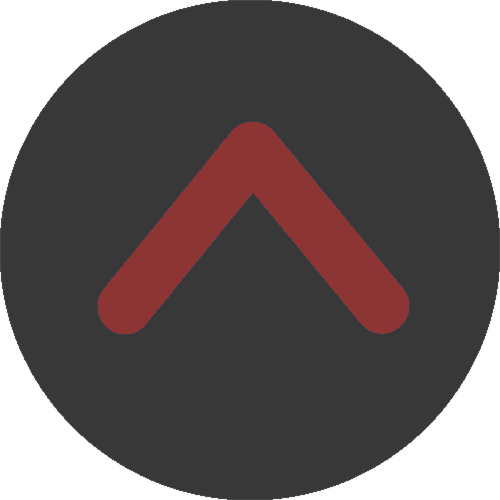
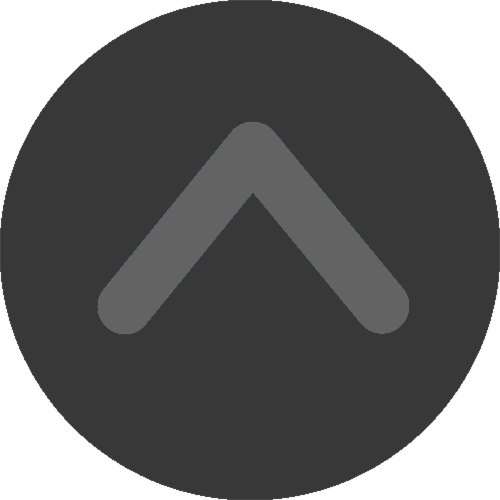
pvp overlays working. Performance updates as well.

Changed region(s): [[0.18, 0.24, 0.84, 0.69]]

diff --git a/Views/Overlay/PvP/OpponentHPBar.xaml b/Views/Overlay/PvP/OpponentHPBar.xaml
@@ -13,9 +13,8 @@
                 <ColumnDefinition Width="{Binding BarWidth, Mode=TwoWay}"/>
                 <ColumnDefinition Width="{Binding RemainderWidth, Mode=TwoWay}"/>
             </Grid.ColumnDefinitions>
-            <Border HorizontalAlignment="Stretch" Grid.Column="0" CornerRadius="0,5,5,0" Background="Firebrick"></Border>
+            <Border HorizontalAlignment="Stretch" Grid.Column="0" CornerRadius="0,5,5,0" Background="{Binding Menace, Converter={StaticResource MenaceTypeToBrushConverter}}"></Border>
             <TextBlock HorizontalAlignment="Center" VerticalAlignment="Center" FontWeight="DemiBold" FontFamily="{StaticResource MainFont}" FontSize="30" Grid.ColumnSpan="2"  Foreground="WhiteSmoke" Text="{Binding PlayerName}"></TextBlock>
-            <Image Visibility="{Binding IsMenace, Converter={StaticResource BooleanToVisibiityConverter}}" Source="{Binding MenaceIconSource}" HorizontalAlignment="Left" VerticalAlignment="Center" Margin="5,5,5,5"></Image>
         </Grid>
     </Border>
 

diff --git a/Views/Overlay/PvP/OpponentMapIcon.xaml b/Views/Overlay/PvP/OpponentMapIcon.xaml
@@ -14,10 +14,10 @@
         </Grid.RowDefinitions>
         <Grid Grid.Row="0">
             <Viewbox>
-                <Image Source="../../../resources/question-mark.png" x:Name="Icon" RenderTransformOrigin="0.5,0.5"/>
+                <Image Source="../../../resources/RoomOverlays/OpponentLocation.png" x:Name="Icon" RenderTransformOrigin="0.5,0.5"/>
             </Viewbox>
-            <Viewbox HorizontalAlignment="Right" VerticalAlignment="Bottom" Margin="10,10,0,0">
-                <Image Source="../../../resources/dpsIcon.png" x:Name="MenaceIcon" />
+            <Viewbox>
+                <Image Source="../../../resources/RoomOverlays/SelectionAdornment.png" x:Name="SelectionAdornment" />
             </Viewbox>
             
         </Grid>

diff --git a/App.xaml b/App.xaml
@@ -45,6 +45,7 @@
             <converters:OverlayTypeToReadableNameConverter x:Key="OverlayTypeToReadableNameConverter"/>
             <converters:OpponentInRangeToColorConverter x:Key="OpponentInRangeToColorConverter"/>
             <converters:BooleanToHpBorderConverter x:Key="BooleanToHpBorderConverter"/>
+            <converters:MenaceTypeToBrushConverter x:Key="MenaceTypeToBrushConverter"/>
         </ResourceDictionary>
     </Application.Resources>
 </Application>

diff --git a/Views/Overlay/PvP/MiniMapView.xaml.cs b/Views/Overlay/PvP/MiniMapView.xaml.cs
@@ -176,16 +176,8 @@ namespace SWTORCombatParser.Views.Overlay.PvP
                 Canvas.SetTop(RangeIndicator, imageLocation.Height / 2 - (RangeIndicator.Height / 2));
                 foreach (var opponent in opponentInfos) {
                     var img = opponentImages[opponentIndex];
-                    img.Icon.Source = opponent.IsTarget ?
-                    new BitmapImage(new Uri(System.IO.Path.Combine(Environment.CurrentDirectory, "resources/RoomOverlays/TargetedOpponentLocation.png"))) :
-                    new BitmapImage(new Uri(System.IO.Path.Combine(Environment.CurrentDirectory, "resources/RoomOverlays/OpponentLocation.png")));
-                    if (opponent.Menace != MenaceTypes.None)
-                    { 
-                        img.MenaceIcon.Visibility = Visibility.Visible;
-                        img.MenaceIcon.Source = new BitmapImage(GetUriFromMenaceType(opponent.Menace));
-                    }
-                    else
-                        img.MenaceIcon.Visibility = Visibility.Hidden;
+                    img.Icon.Source = new BitmapImage(GetUriFromMenaceType(opponent.Menace));
+                    img.SelectionAdornment.Visibility = opponent.IsTarget ? Visibility.Visible : Visibility.Hidden;
 
                     img.PlayerName.Text = opponent.Name;
                     img.Visibility = Visibility.Visible;
@@ -199,6 +191,8 @@ namespace SWTORCombatParser.Views.Overlay.PvP
 
                     
                     Point characterLocation = new Point((imageLocation.Width * xFraction) + imageLocation.Width/2, (imageLocation.Height * yFraction) + imageLocation.Height/2);
+                    characterLocation.X = Math.Max(0,Math.Min(characterLocation.X, imageLocation.Width));
+                    characterLocation.Y = Math.Max(0,Math.Min(characterLocation.Y, imageLocation.Height));
                     img.Height = imageLocation.Height * 0.1;
                     img.Width = img.Height;
                     Canvas.SetLeft(img, characterLocation.X - (img.Width / 2));
@@ -219,10 +213,10 @@ namespace SWTORCombatParser.Views.Overlay.PvP
             if (menace == MenaceTypes.None)
                 return new Uri(System.IO.Path.Combine(Environment.CurrentDirectory, "resources/RoomOverlays/OpponentLocation.png"));
             if (menace == MenaceTypes.Dps)
-                return new Uri(System.IO.Path.Combine(Environment.CurrentDirectory, "resources/dpsIcon.png"));
+                return new Uri(System.IO.Path.Combine(Environment.CurrentDirectory, "resources/RoomOverlays/DamageMenaceOpponentLocation.png"));
             if (menace == MenaceTypes.Healer)
-                return new Uri(System.IO.Path.Combine(Environment.CurrentDirectory, "resources/healingIcon.png"));
-            return new Uri(System.IO.Path.Combine(Environment.CurrentDirectory, "resources/question-mark.png"));
+                return new Uri(System.IO.Path.Combine(Environment.CurrentDirectory, "resources/RoomOverlays/HealMenaceOpponentLocation.png"));
+            return new Uri(System.IO.Path.Combine(Environment.CurrentDirectory, "resources/RoomOverlays/OpponentLocation.png"));
         }
 
         private void HideAllOpponents()

diff --git a/Utilities/SWTORDetector.cs b/Utilities/SWTORDetector.cs
@@ -13,27 +13,34 @@ namespace SWTORCombatParser.Utilities
         public static bool SwtorRunning;
         public static void StartMonitoring()
         {
-            _monitorForSwtor = true;
-            Task.Run(() => {
-                while (_monitorForSwtor)
-                {
-                    var processCollection = Process.GetProcesses();
-                    if(processCollection.Any(p=>p.ProcessName == "swtor"))
+                _monitorForSwtor = true;
+                Task.Run(() => {
+                    while (_monitorForSwtor)
                     {
-                        if(!SwtorRunning)
-                            UpdateStatus();
-                        SwtorRunning = true;
-                    }
-                    else
-                    {
-                        if(SwtorRunning)
-                            UpdateStatus();
-                        SwtorRunning = false;
-                    }
+                        try
+                        {
+                            var processCollection = Process.GetProcesses();
+                            if (processCollection.Any(p => p.ProcessName == "swtor"))
+                            {
+                                if (!SwtorRunning)
+                                    UpdateStatus();
+                                SwtorRunning = true;
+                            }
+                            else
+                            {
+                                if (SwtorRunning)
+                                    UpdateStatus();
+                                SwtorRunning = false;
+                            }
 
-                    Thread.Sleep(SwtorRunning ? 1500 : 5000);
-                }
-            });
+                            Thread.Sleep(SwtorRunning ? 1500 : 5000);
+                        }
+                        catch (Exception e)
+                        {
+                            Logging.LogError("Error during process dection: " + e.Message);
+                        }
+                    }
+                });
         }
 
         private static void UpdateStatus()

diff --git a/ViewModels/Combat Monitoring/CombatMonitorViewModel.cs b/ViewModels/Combat Monitoring/CombatMonitorViewModel.cs
@@ -151,18 +151,18 @@ namespace SWTORCombatParser.ViewModels.Combat_Monitoring
             if(!runningInBackground)
                 LoadingWindowFactory.ShowLoading();
             OnMonitoringStateChanged(true);
-            //var mostRecentLog = CombatLogLoader.GetMostRecentLogPath();
-            var mostRecentLog = Path.Join(_logPath, "test.txt");
-            File.Delete(mostRecentLog);
-            File.Create(mostRecentLog).Close();
+            var mostRecentLog = CombatLogLoader.GetMostRecentLogPath();
+            //var mostRecentLog = Path.Join(_logPath, "test.txt");
+            //File.Delete(mostRecentLog);
+            //File.Create(mostRecentLog).Close();
             _combatLogStreamer.MonitorLog(mostRecentLog);
             OnNewLog("Started Monitoring: " + mostRecentLog);
-            Task.Run(() =>
-            {
-                Thread.Sleep(1000);
-                TransferLogData(mostRecentLog);
-                File.Delete(mostRecentLog);
-            });
+            //Task.Run(() =>
+            //{
+            //    Thread.Sleep(1000);
+            //    TransferLogData(mostRecentLog);
+            //    File.Delete(mostRecentLog);
+            //});
 
         }
         //TEST CODE
@@ -181,7 +181,7 @@ namespace SWTORCombatParser.ViewModels.Combat_Monitoring
                     {
                         while (!reader.EndOfStream)
                         {
-                            var numberOfLines = new Random().Next(40, 90);
+                            var numberOfLines = new Random().Next(2, 5);
                             List<string> lines = new List<string>();
                             for (int i = 0; i < numberOfLines; i++)
                             {
@@ -193,7 +193,7 @@ namespace SWTORCombatParser.ViewModels.Combat_Monitoring
                             fs.Flush();
 
 
-                            Thread.Sleep(100);
+                            Thread.Sleep(250);
                         }
                         fs.Flush();
                         fs.Close();

diff --git a/ViewModels/DataGrid/StatsSlotViewModel.cs b/ViewModels/DataGrid/StatsSlotViewModel.cs
@@ -1,5 +1,6 @@
 using MvvmHelpers;
 using SWTORCombatParser.Model.Overlays;
+using SWTORCombatParser.Utilities;
 using SWTORCombatParser.Utilities.Converters;
 using System;
 using System.Drawing;
@@ -27,7 +28,7 @@ namespace SWTORCombatParser.ViewModels.DataGrid
                     ForegroundColor = System.Windows.Media.Brushes.WhiteSmoke;
                 Value = name;
                 DisplayIcon = true;
-                RoleIcon = ToBitmapImage(new Bitmap(Environment.CurrentDirectory + "/resources/"+ iconName));
+                RoleIcon = IconFactory.GetIcon(iconName);
                 return;
             }
             ForegroundColor = (SolidColorBrush)new OverlayMetricToColorConverter().Convert(type, null, null, System.Globalization.CultureInfo.InvariantCulture);
@@ -42,22 +43,5 @@ namespace SWTORCombatParser.ViewModels.DataGrid
             }
         }
         public SolidColorBrush ForegroundColor { get; set; }
-        public static BitmapImage ToBitmapImage(Bitmap bitmap)
-        {
-            using (var memory = new MemoryStream())
-            {
-                bitmap.Save(memory, ImageFormat.Png);
-                memory.Position = 0;
-
-                var bitmapImage = new BitmapImage();
-                bitmapImage.BeginInit();
-                bitmapImage.StreamSource = memory;
-                bitmapImage.CacheOption = BitmapCacheOption.OnLoad;
-                bitmapImage.EndInit();
-                bitmapImage.Freeze();
-
-                return bitmapImage;
-            }
-        }
     }
 }

diff --git a/ViewModels/DataGrid/MemberInfo.cs b/ViewModels/DataGrid/MemberInfo.cs
@@ -21,7 +21,7 @@ namespace SWTORCombatParser.ViewModels.DataGrid
             _info = info;
             _entity = e;
             IsLocalPlayer = e.IsLocalPlayer;
-            StatsSlots = new ObservableCollection<StatsSlotViewModel>(selectedColumns.Select(i => new StatsSlotViewModel(i) {  Value = GetValue(i) }));
+            StatsSlots = new List<StatsSlotViewModel>(selectedColumns.Select(i => new StatsSlotViewModel(i) {  Value = GetValue(i) }));
             StatsSlots.Insert(0, new StatsSlotViewModel(OverlayType.None, _entity.Name, GetIconPathFromClass(CombatLogStateBuilder.CurrentState.GetCharacterClassAtTime(_entity, info.Last().StartTime)), IsLocalPlayer));
             if(selectedColumns.Count < 10)
                 StatsSlots.Add(new StatsSlotViewModel(OverlayType.None) { Value = "" });
@@ -105,12 +105,12 @@ namespace SWTORCombatParser.ViewModels.DataGrid
         {
             return classInfo.Role switch
             {
-                Role.Healer => "healingIcon.png",
-                Role.Tank => "tankIcon.png",
-                Role.DPS => "dpsIcon.png",
-                _ => "question-mark.png"
+                Role.Healer => "healer",
+                Role.Tank => "tank",
+                Role.DPS => "dps",
+                _ => "unknown"
             };
         }
-        public ObservableCollection<StatsSlotViewModel> StatsSlots { get; set; } = new ObservableCollection<StatsSlotViewModel>();
+        public List<StatsSlotViewModel> StatsSlots { get; set; } = new List<StatsSlotViewModel>();
     }
 }

diff --git a/Utilities/IconFactory.cs b/Utilities/IconFactory.cs
@@ -1,0 +1,40 @@
+using SWTORCombatParser.DataStructures.ClassInfos;
+using System;
+using System.Collections.Generic;
+using System.Linq;
+using System.Text;
+using System.Threading.Tasks;
+using System.Windows.Media.Imaging;
+
+namespace SWTORCombatParser.Utilities
+{
+    public static class IconFactory
+    {
+        private static BitmapImage _tankIcon;
+        private static BitmapImage _healIcon;
+        private static BitmapImage _dpsIcon;
+        private static BitmapImage _unknownIcon;
+
+        public static void Init()
+        {
+            _tankIcon = new BitmapImage(new Uri(Environment.CurrentDirectory + "/resources/tankIcon.png"));
+            _healIcon = new BitmapImage(new Uri(Environment.CurrentDirectory + "/resources/healingIcon.png"));
+            _dpsIcon = new BitmapImage(new Uri(Environment.CurrentDirectory + "/resources/dpsIcon.png"));
+            _unknownIcon = new BitmapImage(new Uri(Environment.CurrentDirectory + "/resources/question-mark.png"));
+        }
+        public static BitmapImage GetIcon(string role)
+        {
+            switch (role)
+            {
+                case "tank":
+                    return _tankIcon;
+                case "healer":
+                    return _healIcon;
+                case "dps":
+                    return _dpsIcon;
+                default:
+                    return _unknownIcon;
+            }
+        }
+    }
+}

diff --git a/Utilities/Converters/MenaceTypeToBrushConverter.cs b/Utilities/Converters/MenaceTypeToBrushConverter.cs
@@ -1,0 +1,32 @@
+using SWTORCombatParser.ViewModels.Overlays.PvP;
+using System;
+using System.Collections.Generic;
+using System.Globalization;
+using System.Linq;
+using System.Text;
+using System.Threading.Tasks;
+using System.Windows.Data;
+using System.Windows.Media;
+
+namespace SWTORCombatParser.Utilities.Converters
+{
+    public class MenaceTypeToBrushConverter : IValueConverter
+    {
+        public object Convert(object value, Type targetType, object parameter, CultureInfo culture)
+        {
+            var menaceType = (MenaceTypes)value;
+            if (menaceType == MenaceTypes.None)
+                return Brushes.IndianRed;
+            if (menaceType == MenaceTypes.Healer)
+                return Brushes.MediumSeaGreen;
+            if (menaceType == MenaceTypes.Dps)
+                return Brushes.Firebrick;
+            return Brushes.Magenta;
+        }
+
+        public object ConvertBack(object value, Type targetType, object parameter, CultureInfo culture)
+        {
+            throw new NotImplementedException();
+        }
+    }
+}

diff --git a/ViewModels/Overlays/PvP/OpponentHPBarViewModel.cs b/ViewModels/Overlays/PvP/OpponentHPBarViewModel.cs
@@ -49,16 +49,11 @@ namespace SWTORCombatParser.ViewModels.Overlays.PvP
                 OnPropertyChanged();
             }
         }
-        public bool IsMenace { get; set; }
-        public string MenaceIconSource => Menace == MenaceTypes.Dps ? Path.Combine(Environment.CurrentDirectory, "resources/dpsIcon.png") : Path.Combine(Environment.CurrentDirectory, "resources/healingIcon.png");
         public MenaceTypes Menace
         {
             get => menace; set
             {
                 menace = value;
-                if(menace!=MenaceTypes.None)
-                    IsMenace = true;
-                OnPropertyChanged("MenaceIconSource");
                 OnPropertyChanged("IsMenace");
             }
         }

diff --git a/ViewModels/DataGrid/DataGridViewModel.cs b/ViewModels/DataGrid/DataGridViewModel.cs
@@ -10,6 +10,7 @@ using System.ComponentModel;
 using System.Linq;
 using System.Runtime.CompilerServices;
 using SWTORCombatParser.DataStructures.ClassInfos;
+using SWTORCombatParser.Utilities;
 
 namespace SWTORCombatParser.ViewModels.DataGrid
 {
@@ -31,6 +32,7 @@ namespace SWTORCombatParser.ViewModels.DataGrid
 
         public DataGridViewModel()
         {
+            IconFactory.Init();
             DataGridDefaults.Init();
             CombatLogStateBuilder.PlayerDiciplineChanged += UpdateColumns;
             CombatLogStreamer.HistoricalLogsFinished += UpdateLocalPlayer;
